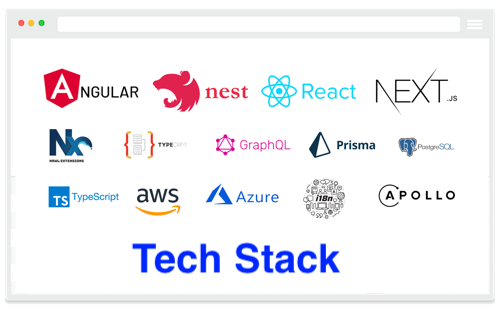
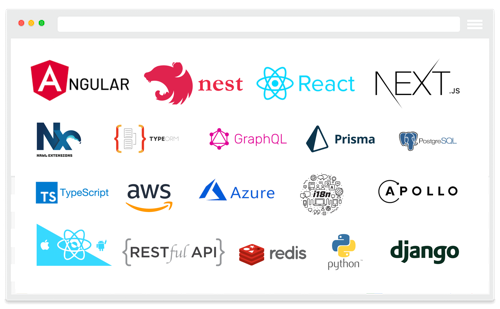
process

diff --git a/apps/neekware/src/app/pages/home/home.component.ts b/apps/neekware/src/app/pages/home/home.component.ts
@@ -44,8 +44,14 @@ export class HomeComponent implements OnInit, OnDestroy {
     {
       title: 'Our technology stack',
       description:
-        'We use the latest technologies to build the best products for you. Our stack is built with mono-repositories, so you can easily develop and deploy multiple applications easily. We use Typescript, throughout our stack, the frontend, backend, and infrastructure. We can build teams for you, train the staff, and provide ongoing consulting services. We hold your hands throughout the process, and beyond!',
+        'We use the latest technologies to build the best products for you. Our stack is built with mono-repositories, so you can develop and deploy multiple applications easily. We use Typescript, throughout our stack, the frontend, backend, and anything in between. We can build teams for you, train the staff, and provide ongoing consulting services. Our second language is Python, along with Django framework. GraphQL is our primary backends endpoint, with also support REST. We use a variety of tools to help you manage your code, including Git, Jira, Slack, and Bitbucket.',
       image: '/assets/images/misc/techstack-card.png',
+    },
+    {
+      title: 'How to engage with us',
+      description:
+        'Reach out to us via email, phone, or chat. Tell us what you need, and we will get back to you as soon as possible with a statement of work. We work with you to finalize the details of your project, and we will provide you with a quote. We will then work with you to get the project started. We will also provide ongoing consulting services, and train the staff.',
+      image: '/assets/images/misc/process-card.png',
     },
   ];
 

diff --git a/apps/neekware/src/app/pages/about/about.component.ts b/apps/neekware/src/app/pages/about/about.component.ts
@@ -19,7 +19,7 @@ export class AboutComponent {
     {
       title: 'Val Neekman',
       description:
-        'Val is responsible for defining the overall business strategy for the firm, and he also devotes significant time to sales and operations. Val brings more than 20 years of experience to the firm. He previously served as founder and CEO of Neekware Inc, which in 2008 pivoted to a software consultancy. Val holds a bachelor of engineering from Carleton University. Val lives in Ontario Canada.',
+        'Val is responsible for defining the overall business strategy for the firm, including time allocated to sales and operations. Val brings more than 20 years of experience to the firm. He previously served as founder and CEO of Neekware Inc, which in 2008 he pivoted to a software consultancy. Val holds a bachelor of engineering from Carleton University. Val lives in Ontario Canada.',
       image: '/assets/images/people/ceo-card.png',
     },
     {

diff --git a/README.md b/README.md
@@ -49,7 +49,7 @@ X.Y.Z Version
 ```txt<br>--------------------------------------------------------------------------------
  Language             Files        Lines        Blank      Comment         Code
 --------------------------------------------------------------------------------
- TypeScript             338        21027         2373         3454        15200
+ TypeScript             338        21033         2373         3454        15206
  JSON                   118         4505            0            0         4505
  HTML                    50         2210          166           20         2024
  Sass                    73         2211          246           41         1924
@@ -60,7 +60,7 @@ X.Y.Z Version
  SQL                      2           88           17           16           55
  Toml                     1            3            0            2            1
 --------------------------------------------------------------------------------
- Total                  716        31905         3229         3590        25086
+ Total                  716        31911         3229         3590        25092
 --------------------------------------------------------------------------------
 ```
 
